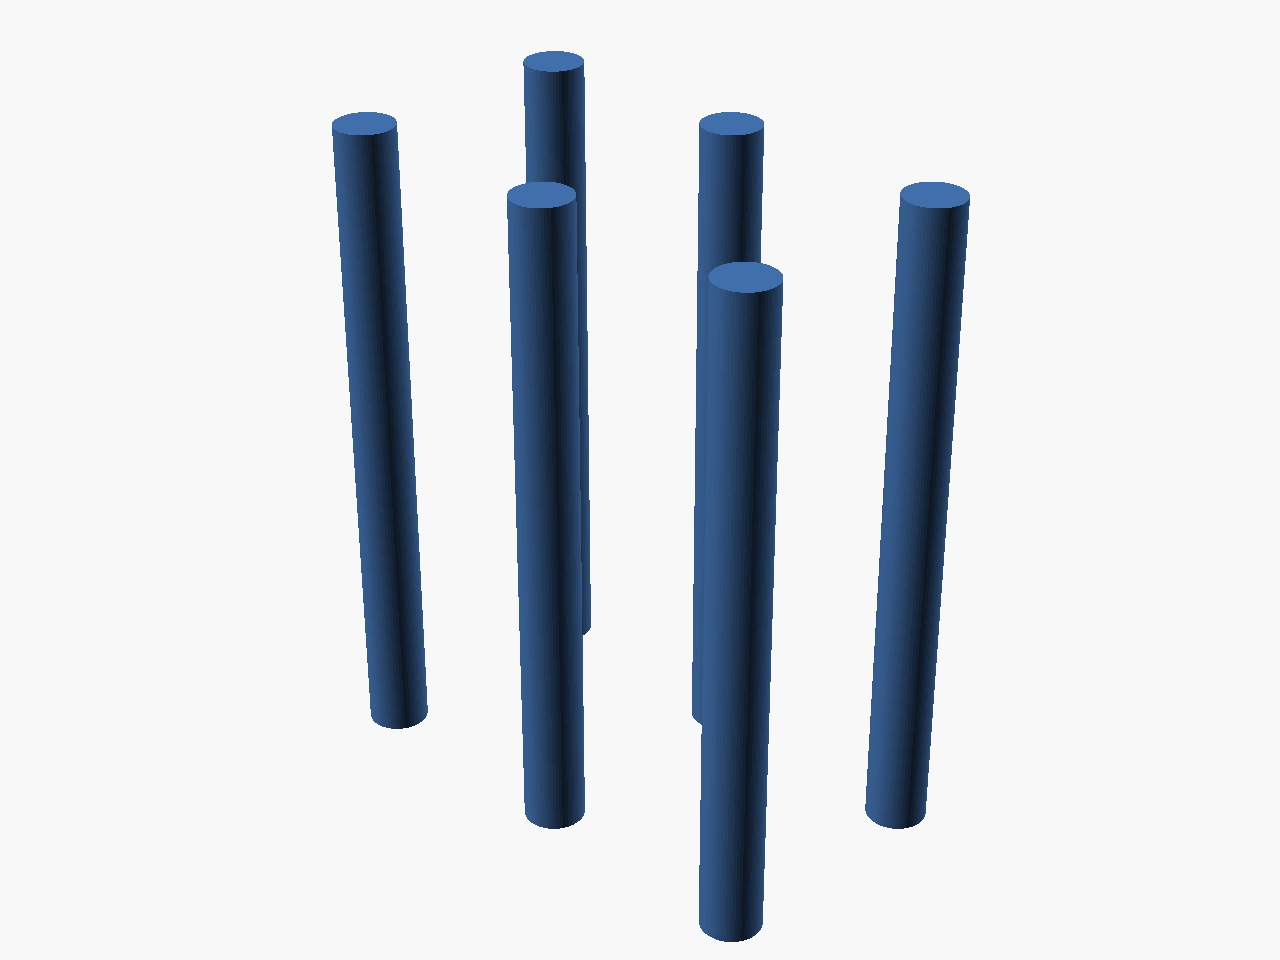
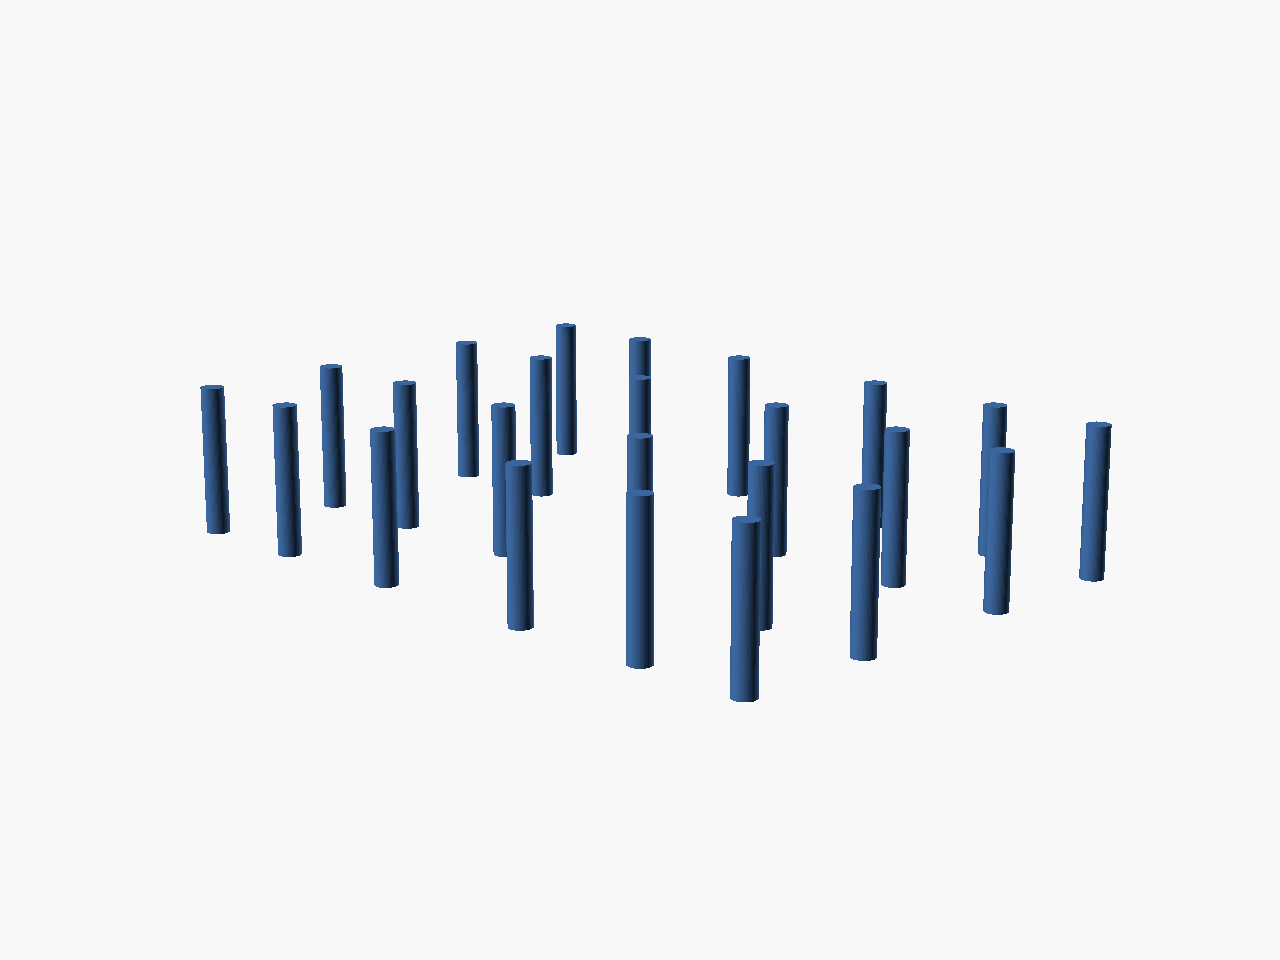
docs(readme): 示例快照替换为 5间×3间 生成柱网（G17 输出）
- docs/images/{sheet-sample.svg, preview-sample.png} ← build/（24 根檐柱，
  D=300，明间 8D，FandolFang 嵌入图纸），经 CLI 确定性重建保证可复现
- 中英 README：示例标题/说明更新（5×3、24 柱、FandolFang），补 CLI 复现
  命令（layout.generate_layout → pipeline.build --data build/generated），
  「当前能力」补间数生成柱网

Changed region(s): [[0.1562, 0.0312, 0.625, 1.0], [0.6562, 0.1875, 0.8125, 0.875], [0.8438, 0.4375, 0.875, 0.625]]

diff --git a/README.en.md b/README.en.md
@@ -6,15 +6,15 @@
 
 Chinese Historic Building Information Modeling — a BIM organization method based on traditional Chinese construction practice. Prototype V1 is an open-source feasibility study aimed at researchers, heritage-architecture enthusiasts, and creators who need to produce traditional-architecture models quickly: [OpenSCAD](https://openscad.org) serves as a scriptable, versionable, reproducible geometry core; axis lines (*seams*) and members are described as JSON data; a Python glue layer converts them into OpenSCAD instance code and automatically exports models and three-view drawings reusable in Blender / Adobe Illustrator / AutoCAD.
 
-> **Current scope**: the *yanzhu* (eave column) only; the Web workbench supports real-time adjustment of the modular diameter D. See [PROGRESS.md](PROGRESS.md) and [docs/DECISIONS.md](docs/DECISIONS.md) for what V1 does and does not cover.
+> **Current scope**: the *yanzhu* (eave column) only; the Web workbench generates the column grid in real time from the modular diameter D and the bay counts along the width (miankuo) and depth (jinshen) — bay widths shrink ×0.8 outward from the central bay, and column height = 0.8 × central-bay width. See [PROGRESS.md](PROGRESS.md) and [docs/DECISIONS.md](docs/DECISIONS.md) for what V1 does and does not cover.
 
-## Example Output (D=300, snapshot of v0.3.0 semantics)
+## Example Output (5 bays × 3 bays, D=300, 24 eave columns)
 
 <table>
   <tr>
     <td align="center">
       <img src="docs/images/sheet-sample.svg" width="339" alt="Three-view drawing sample (SVG)"><br>
-      <sub>Three-view drawing · <code>make build D=300</code> (A4, GB/T 50001-2017 frame &amp; title block)</sub>
+      <sub>Three-view drawing (A4, GB/T 50001-2017 frame &amp; title block, embedded FandolFang font)</sub>
     </td>
     <td align="center">
       <img src="docs/images/preview-sample.png" width="320" alt="3D preview sample (PNG)"><br>
@@ -23,7 +23,15 @@ Chinese Historic Building Information Modeling — a BIM organization method bas
   </tr>
 </table>
 
-Snapshots are refreshed manually via `make snapshot`; `build/` itself is not committed.
+Reproduce (CLI):
+
+```bash
+python -c "from pathlib import Path; from bridge import layout, pipeline; \
+layout.write_layout(layout.generate_layout(5, 3), Path('build/generated')); \
+pipeline.build(D=300, data_dir=Path('build/generated'))"
+```
+
+Or enter the bay counts in the Web workbench (`make serve`) and click Generate. Snapshots are refreshed manually; `build/` itself is not committed.
 
 ---
 

diff --git a/CHANGELOG.md b/CHANGELOG.md
@@ -6,6 +6,7 @@
 
 ### Added
 - 间数生成柱网（G17）：输入「面阔 X 间，进深 Y 间」自动生成柱网——X 间 = X+1 柱/排，仅支持奇数间（明间基准）；间宽自明间每向外一间 ×0.8（次间 0.8W、梢间 0.64W…）；柱高全柱等高 = 0.8×明间面阔；缝命名 JIAN_L1..Ln/R1..Rn（自明间向外）+ CAO 内圈 F1..Fn/B1..Bn、外圈 Fo/Bo（檐槽/金槽区分）。规律记录于 docs/coding-system.md；运算层 `bridge/layout.py`；交互 `POST /api/layout`。工作台改为单一「生成」入口：D + 面阔/进深间数 + 明间面阔/进深一次提交（原「生成模型与图纸」读取静态示例的路径由 `/api/build` 保留供 API/测试，UI 不再使用）；生成数据写 `build/generated/`，不覆盖 `data/` 静态示例；生成后轴线表联动刷新为解析坐标。新增 tests/test_layout.py（15 例）
+- README 示例快照更新为 5间×3间 生成柱网（24 根檐柱，D=300，FandolFang 图纸），中英 README 补 CLI 复现命令
 
 ## [0.3.4] - 2026-09-08
 
